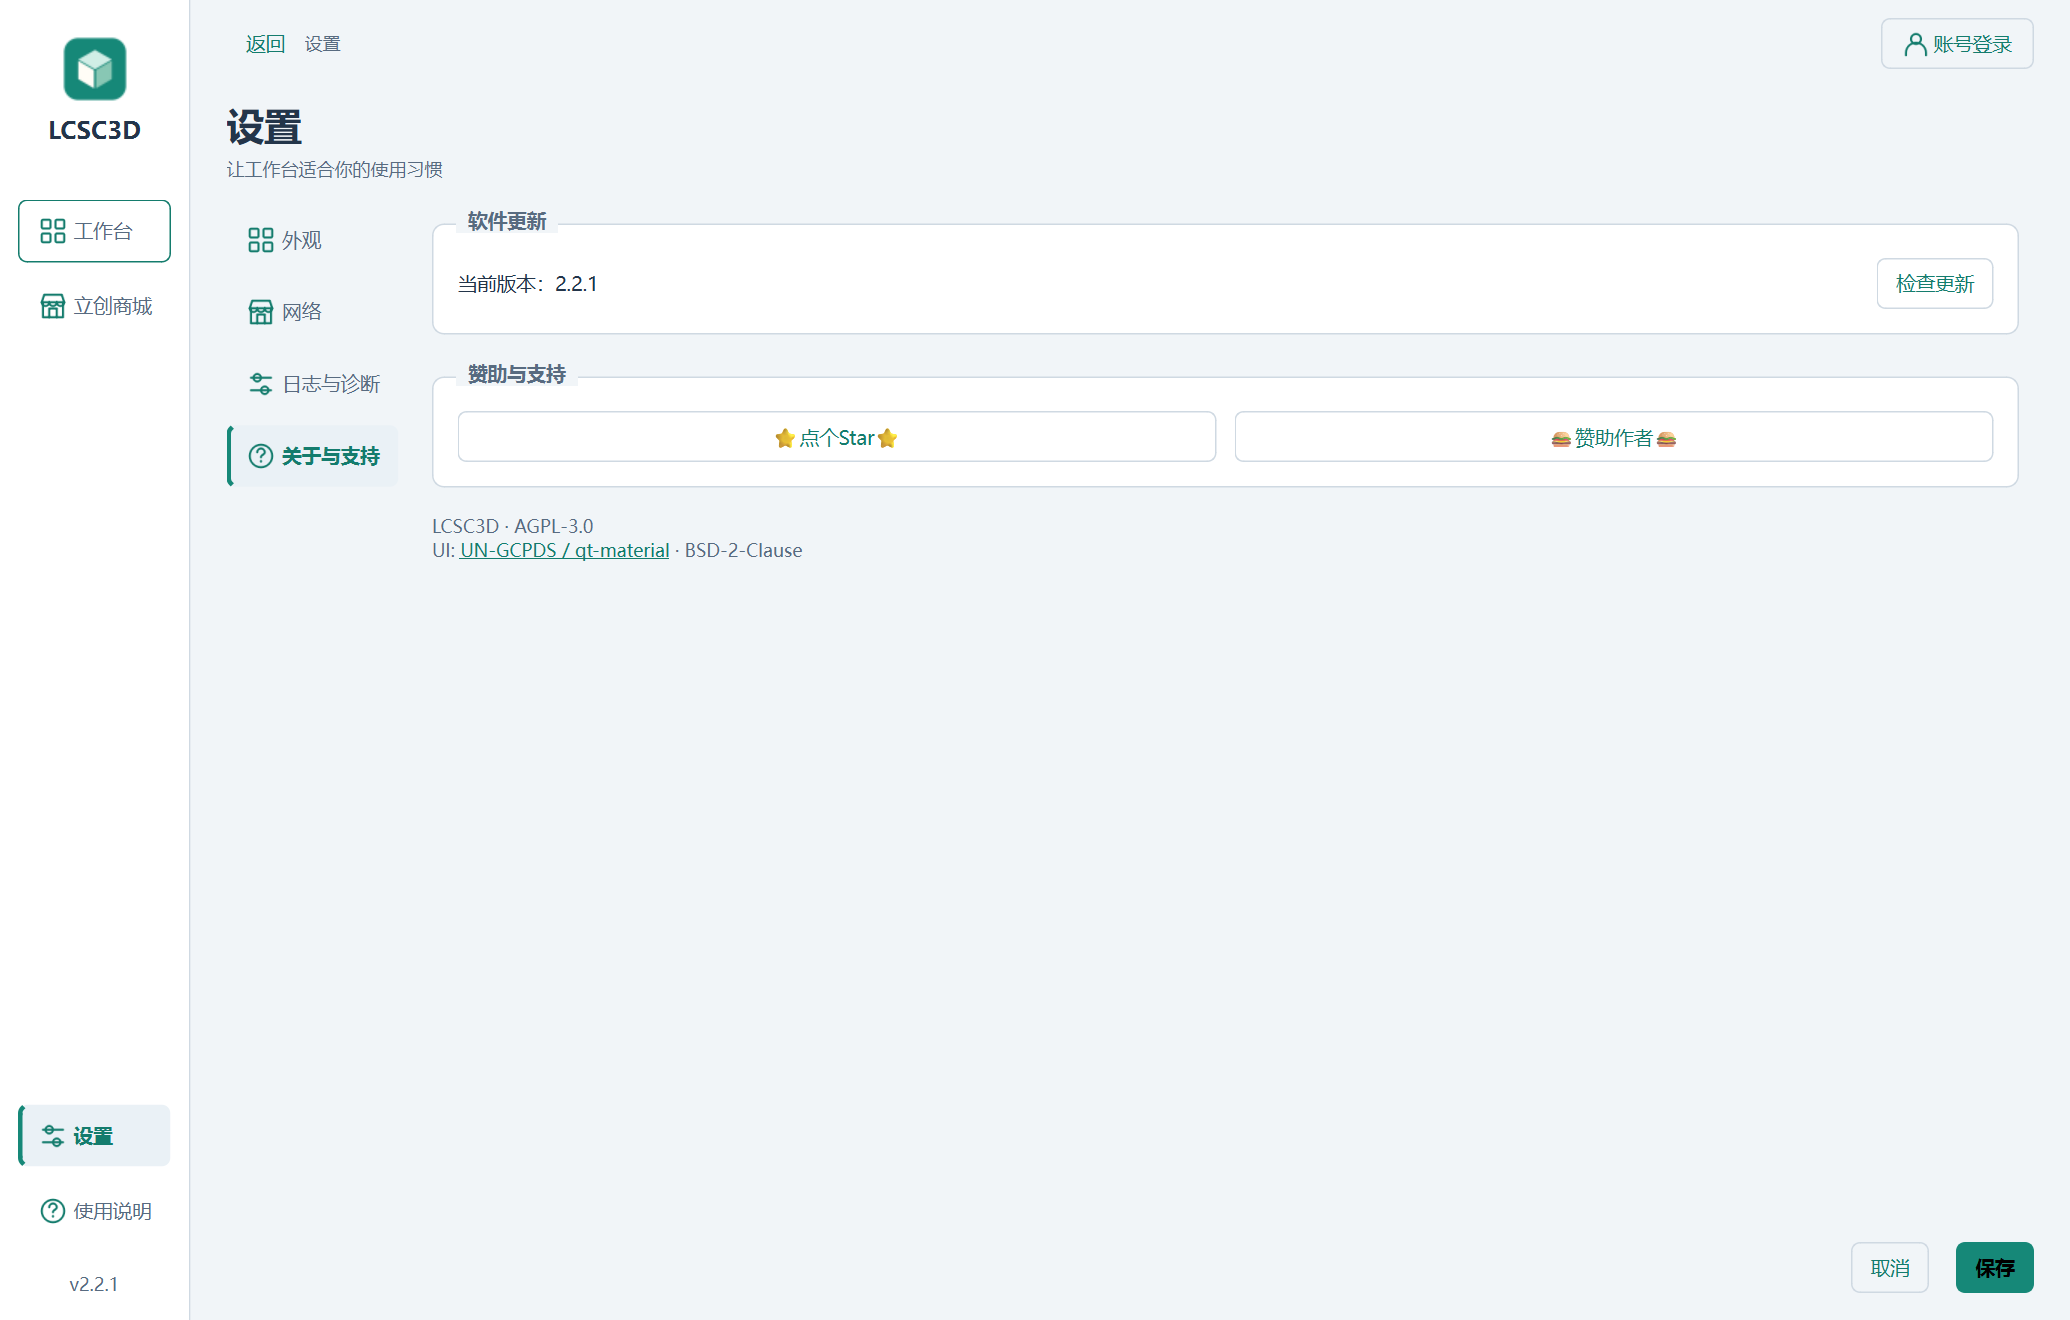
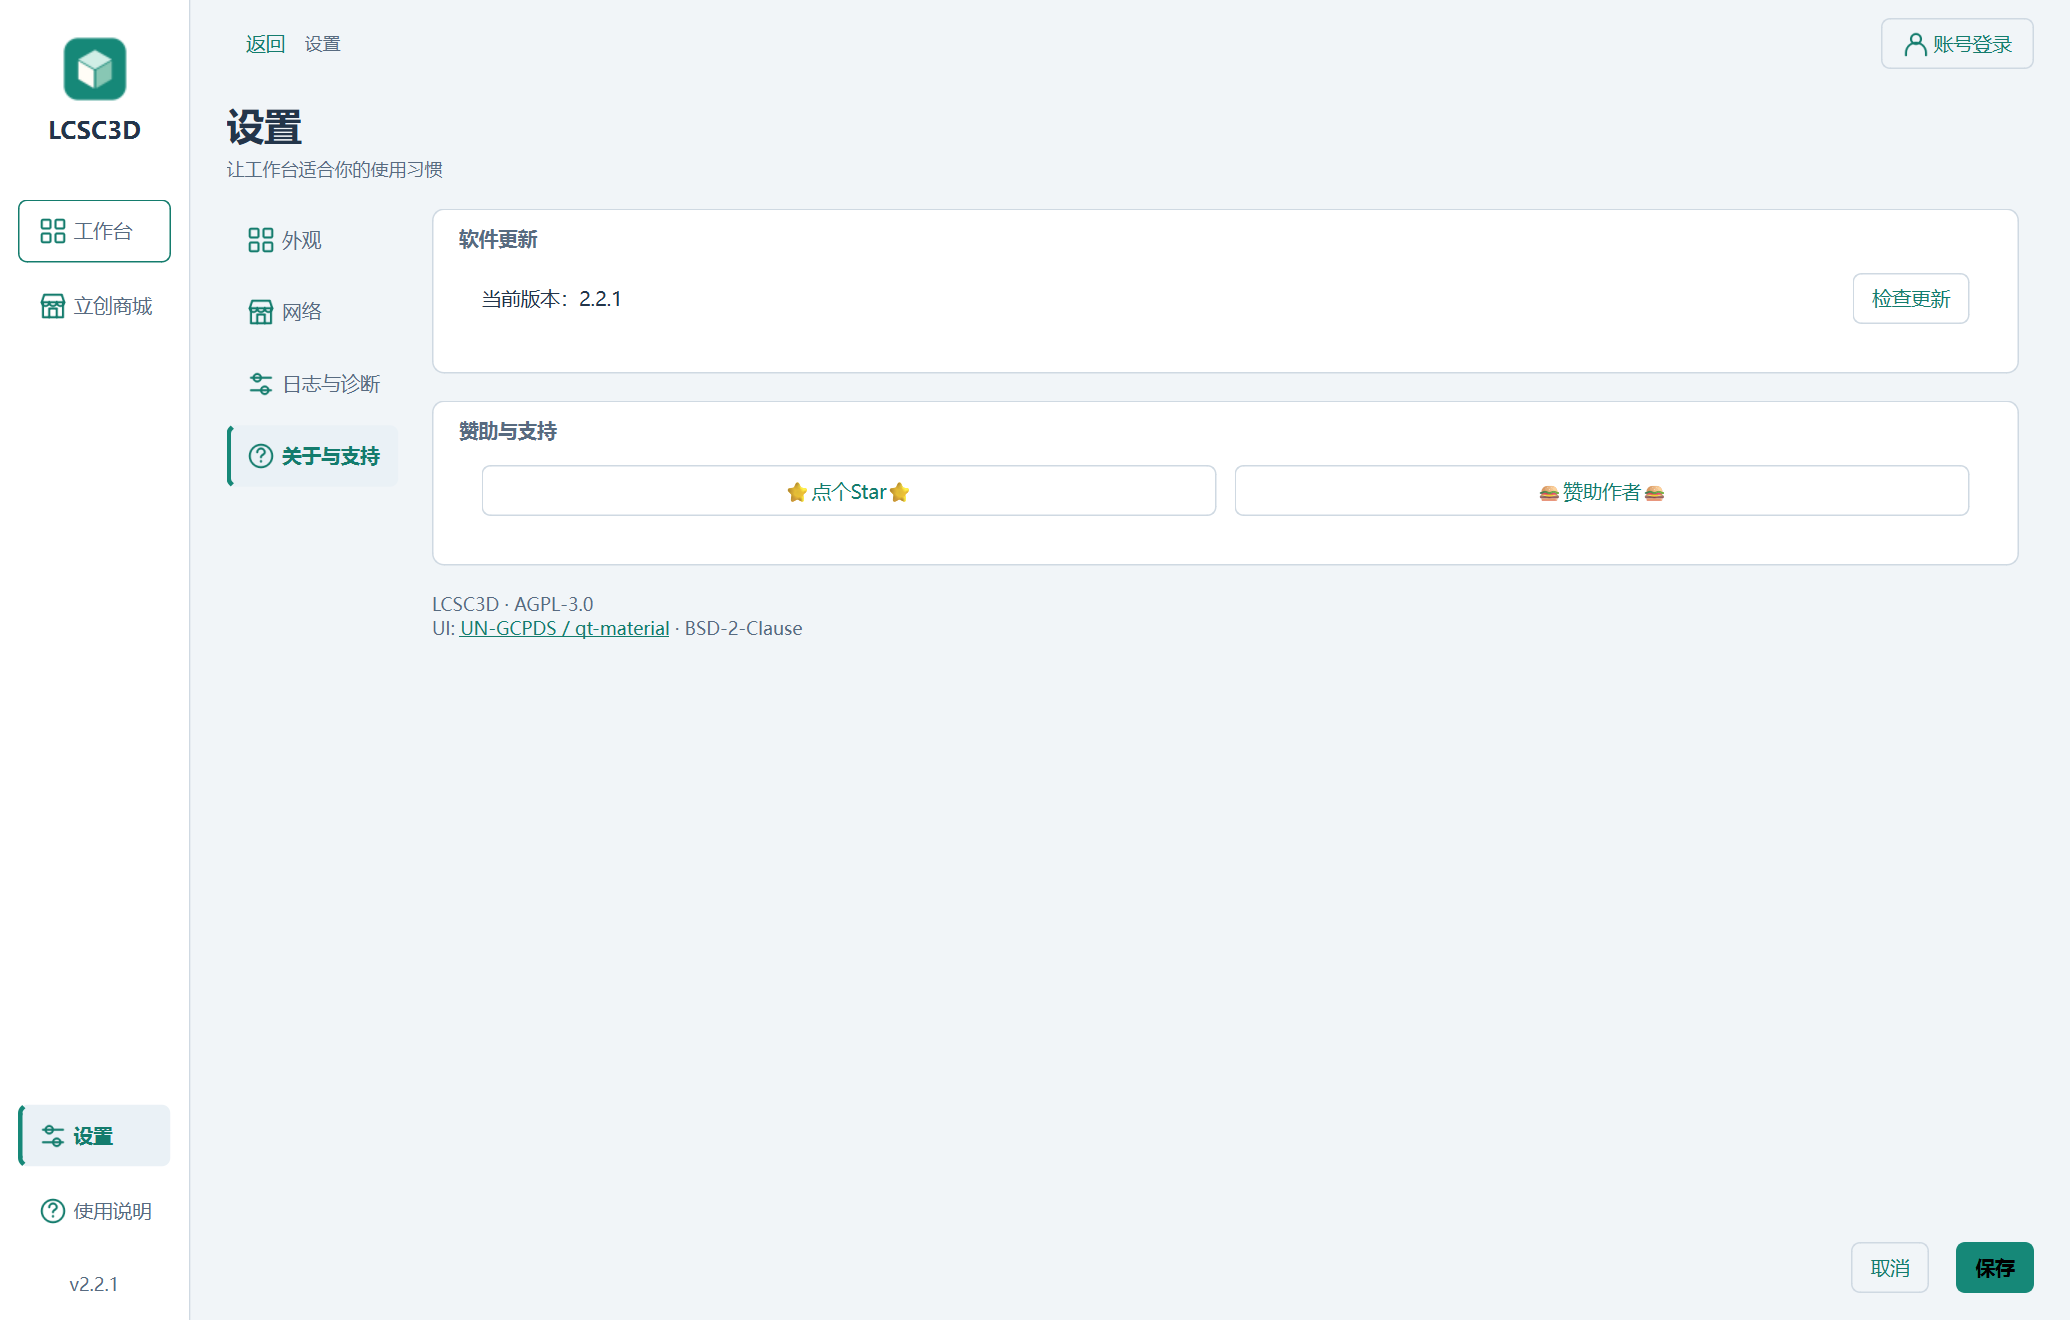
Place group titles inside the upper left of panels

diff --git a/app/app_theme.py b/app/app_theme.py
@@ -138,7 +138,6 @@ def stylesheet(c):
     c = dict(typography(), **c)
     assets = Path(__file__).resolve().parent / 'assets'
     c['control_height'] = max(20, round(c['font_size'] * 1.5))
-    c['legend_offset'] = c['control_height'] // 2
     result = (assets / 'material-overrides.qss').read_text(encoding='utf-8') % c
     # Upstream supplies selected/focused table indicators with more specific
     # selectors. Cover those combinations so high contrast ticks also survive

diff --git a/docs/Material-UI验证.md b/docs/Material-UI验证.md
@@ -10,7 +10,7 @@
 | 提醒从右上角滑入 | 导入结果、启动更新提醒、清除日志确认使用主窗口内通知，从右侧向左滑入；确认操作须点击对应按钮。 |
 | 勾选框黑框与边缘不平滑 | 以完整圆角 SVG 绘制各状态，避免原生边框与勾号图片叠加；覆盖表格、选择行、普通复选框及禁用状态。 |
 | 账号菜单宽度不一 | 菜单贴齐账号按钮，每行使用相同宽度；账号名称变化后重新定位。 |
-| 分组标题需嵌入边框 | 设置中的主题、更新、赞助等标题嵌入分组框上边缘。 |
+| 分组标题位置 | 按最终要求统一放在框内左上角；标题透明，边框完整，内容下移以留出标题空间。设置和支付宝/微信收款码分组使用相同样式。 |
 | 商城左右比例调节样式不一致 | 商城与工作台共用圆角拖动分隔条。 |
 | 下拉框随机位置 | 下拉列表从控件下方展开，与控件等宽，最多八项，支持滚动、键盘选择与 Esc 取消；文件选择页内的下拉框也在主窗口内显示。 |
 | 商城顶部白条 | 关闭原生页签基线，使用统一的 Material 选中下划线。 |
@@ -20,7 +20,20 @@
 
 侧栏切换保留下载队列、勾选、商城搜索与未保存设置；设置中的保存、取消和返回遵守原有保存语义。预览商城元件切回工作台，重新进入商城保留选择。后台更新检查仅发送通知，点击通知后进入更新页；重复打开复用当前更新任务。
 
-## 验证结果
+## 框内标题调整（最新构建）
+
+按最终要求，把主题、代理、日志、更新、赞助与两种收款码的标题统一移入框内左上角。标题使用透明背景，保留完整边框；内容区域预留标题高度，随字号调整。
+
+- 构建前检查浅色/深色、微软雅黑 UI/Cascadia Code、12/13/24px、100%/150%/200% 缩放，共 108 个标题场景。实际像素与位置检查确认标题位于框内、背景色一致、内容不重叠，并检查设置和赞助页截图。
+- `app/build.ps1` 的 425 项回归全部通过，重新生成 `outputs/LCSC3D.exe`。
+- 最新 EXE 的 Material 界面和设置自检均通过，覆盖设置各页、收款码、字体、明暗主题、保存/取消与日志操作。验证采用隔离 AppData，未读取真实登录信息。
+- EXE 内全部应用模块、资源与当前工作区一致；源码 ZIP 逐文件核对，根目录与 `outputs/v2.2.1/` 的五项交付文件同步。
+
+本轮过程材料位于已忽略的 `work/group-titles/`；下方界面截图中的设置、下拉与赞助页已更新为本次 EXE 截图。
+
+![收款码标题位于框内左上角](images/material/sponsorship.png)
+
+## 单窗口重构综合验证（上一轮）
 
 - `app/build.ps1`：425 项回归全部通过，包括新增的八项单窗口与控件回归。测试使用隔离的 `LOCALAPPDATA` 和临时目录。实际渲染检查覆盖紫色勾选框、明暗配色、不同字号与选中/禁用状态。
 - `--self-test-material`：正式 EXE 生成 24 张截图，每次捕获前均确认只有一个可见主窗口、没有活动模态窗口。检查设置、登录、图库入口、支持、颜色/文件选择、库追加、帮助、下拉框、账号菜单和通知。默认 1380×880 工作台完整显示常用操作；1060×740 与 24px 英文字号下操作可滚动访问，符号与封装达到 ready。
@@ -44,7 +57,7 @@
 
 ![控件下方等宽下拉列表](images/material/color-dropdown.png)
 
-![嵌入式分组标题与恢复的支持文案](images/material/settings-about.png)
+![框内左上角标题与支持文案](images/material/settings-about.png)
 
 ![等宽账号菜单，使用离线示例账号](images/material/account-menu.png)
 

diff --git a/README.md b/README.md
@@ -13,7 +13,7 @@ LCSC3D 是面向硬件开发、PCB 设计和结构配合的 Windows 便携工具
 
 **当前源码版本：2.2.1** · **[下载已发布的 Windows 程序](https://github.com/Travelerrrrrr/LCSC3D/releases/latest/download/LCSC3D.exe)** · [已发布的源码包](https://github.com/Travelerrrrrr/LCSC3D/releases/latest/download/LCSC3D.zip) · [使用说明](app/README.md) · [本版更新](docs/releases/v2.2.1.md) · [问题反馈](https://github.com/Travelerrrrrr/LCSC3D/issues)
 
-**2026-10-10 本地 UI 重构：** 接入 [UN-GCPDS/qt-material](https://github.com/UN-GCPDS/qt-material)，重排工作台、商城、登录、设置、图片浏览、追加配置、更新和帮助，全部嵌入同一个窗口。提醒从右上角向左滑入；下拉列表贴齐输入框、账号菜单等宽，商城与工作台共用拖动分隔条，勾选框采用平滑圆角 SVG。设置分组标题嵌入边框，保留“⭐点个Star⭐”与“🍔赞助作者🍔”。最新本地程序为 `outputs/LCSC3D.exe`，本次改动尚未发布到 GitHub Release。
+**2026-10-10 本地 UI 重构：** 接入 [UN-GCPDS/qt-material](https://github.com/UN-GCPDS/qt-material)，重排工作台、商城、登录、设置、图片浏览、追加配置、更新和帮助，全部嵌入同一个窗口。提醒从右上角向左滑入；下拉列表贴齐输入框、账号菜单等宽，商城与工作台共用拖动分隔条，勾选框采用平滑圆角 SVG。设置分组标题放在框内左上角，保留“⭐点个Star⭐”与“🍔赞助作者🍔”。最新本地程序为 `outputs/LCSC3D.exe`，本次改动尚未发布到 GitHub Release。
 
 ![Material 工作台：官方 RP2040 符号预览](docs/images/material/workspace-symbol-light.png)
 

diff --git a/app/README.md b/app/README.md
@@ -8,7 +8,7 @@ Windows 10/11 x64 便携软件，用嘉立创商城 C 编号下载官方 STEP/OB
 
 整个应用保持一个窗口：工作台、商城、设置、登录、原图、库追加、更新、帮助、收款码以及颜色和文件选择均在主界面内切换。左侧导航保留各页输入与勾选，顶部“返回”退出当前操作；设置页点击保存才应用修改，取消或返回则放弃本次设置。
 
-设置按 **外观 / 网络 / 日志与诊断 / 关于与支持** 分页。商城与工作台共用圆角拖动分隔条；所有下拉列表从对应输入框下方展开，宽度与输入框一致。账号菜单各项等宽。导入结果、更新提醒和清除日志确认从界面右上角向左滑入。设置分组标题嵌入边框，并保留 **⭐点个Star⭐**、**🍔赞助作者🍔** 原文。
+设置按 **外观 / 网络 / 日志与诊断 / 关于与支持** 分页。商城与工作台共用圆角拖动分隔条；所有下拉列表从对应输入框下方展开，宽度与输入框一致。账号菜单各项等宽。导入结果、更新提醒和清除日志确认从界面右上角向左滑入。设置分组标题放在框内左上角，并保留 **⭐点个Star⭐**、**🍔赞助作者🍔** 原文。
 
 默认 1380×880 窗口完整显示常用操作；小窗口或大字号下可滚动访问超出区域。主题图标与圆角勾选框 SVG 只缓存在 `%LOCALAPPDATA%/LCSC3D/cache/`，无需联网下载主题资源。
 

diff --git a/docs/releases/v2.2.1.md b/docs/releases/v2.2.1.md
@@ -4,7 +4,7 @@
 
 - 使用 UN-GCPDS/qt-material 2.17 的样式模板与图标，覆盖现有窗口、控件、菜单和提示，保留自定义主题及中文/英文切换。
 - 主窗口改为左侧导航、下载列表与四类预览并排、底部导出设置；商城、登录、图片浏览、库追加、更新、帮助及文件/颜色选择均嵌入主窗口。
-- 设置分为外观、网络、日志与诊断、关于与支持，分组标题嵌入边框；恢复“⭐点个Star⭐”“🍔赞助作者🍔”原文。
+- 设置分为外观、网络、日志与诊断、关于与支持，分组标题放在框内左上角；恢复“⭐点个Star⭐”“🍔赞助作者🍔”原文。
 - 提醒从右上角向左滑入；下拉列表在控件下方等宽展开，账号菜单各行等宽。
 - 去除商城页签顶部白线，商城与工作台使用相同的拖动分隔条，勾选框改用完整 SVG 避免黑框和不平滑边缘。
 - 主题缓存统一落在应用数据目录；构建脚本自动隔离测试配置和日志，并更新根目录交付 EXE。

diff --git a/docs/验证记录.md b/docs/验证记录.md
@@ -2,7 +2,7 @@
 
 ## 2026-10-10 Material UI 重构
 
-最新单窗口界面重构的 425 项回归、实际 EXE 四组自检、通知与更新流程、普通启动及成品源码核对见 [Material UI 验证](Material-UI验证.md)。此记录对应 `outputs/LCSC3D.exe` 的本地 Material 构建，未发布 Release。
+最新框内标题调整的 108 个缩放/字体场景、425 项回归、实际 EXE 界面与设置自检、成品源码核对，以及上一轮单窗口综合验证见 [Material UI 验证](Material-UI验证.md)。此记录对应 `outputs/LCSC3D.exe` 的本地 Material 构建，未发布 Release。
 
 ## 重构前的 2.2.1 验证记录
 
